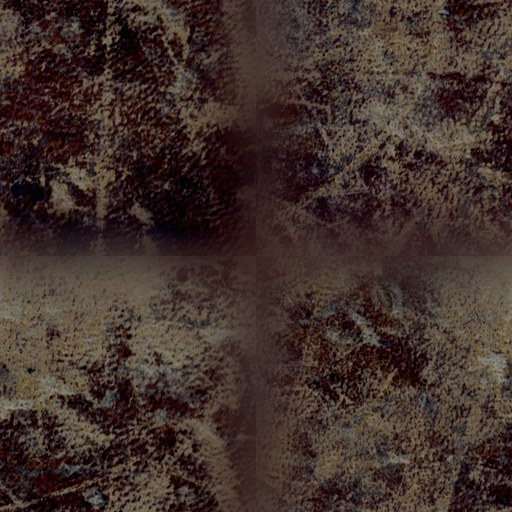
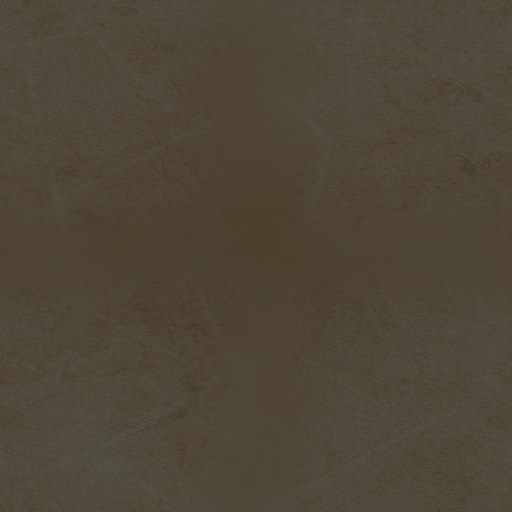
Thème grimoire : fond cuir bruité → parchemin sombre calme & lisible
Le fond cuir patiné était trop chargé et murky (« on voit plus rien »). Remplacé
par un parchemin sombre CALME (même scan Pergament, assombri en brun-noir chaud,
grain léger uniforme) + une vraie hiérarchie de lecture :
- page (table) sombre → planche (feuille) un cran plus claire, liserés or/brun
- cartouche (étiquette) distinct, liseré or
Encre claire à fort contraste (texte 10,6:1, étiquette 9,9:1, titres 13,7:1).

Vérifié runtime (preview) : surfaces grimoire ≥ 9,9:1 ; 368/0 ; smoke 7/7 ; 0 SVG.
CREDITS.md mis à jour (paper-dark dérive désormais de Pergament, Tim Jones, CC BY).

diff --git a/styles.css b/styles.css
@@ -1843,31 +1843,38 @@ img.topbar__sceau{
 }
 .btn-print-go:hover{ background:#7a2228; }
 
-/* --- 5. THÈME GRIMOIRE LISIBLE : voile sombre uniforme sur le cuir --- */
-:root[data-theme="sombre"] body{ background-color:#14100a; }
-:root[data-theme="sombre"] .plate{
+/* --- 5. THÈME GRIMOIRE : parchemin sombre calme + hiérarchie page→planche→cartouche.
+   Fond uniforme (plus de cuir bruité), la « feuille » ressort sur la « table ». --- */
+:root[data-theme="sombre"]{ --paper-body:#161009; }
+:root[data-theme="sombre"] body{
+  background-color:#161009;
   background-image:
-    radial-gradient(140% 120% at 50% 22%, rgba(150,120,72,.10), rgba(0,0,0,0) 46%),
-    linear-gradient(rgba(26,21,14,.86), rgba(22,18,12,.9)),
+    linear-gradient(rgba(15,11,7,.60), rgba(12,9,6,.66)),
     var(--paper-tex) !important;
-  background-size:auto, auto, 520px !important;
-  border-color:rgba(67,55,34,.5);
+  background-size:auto, 520px !important;
 }
+/* la planche = feuille claire posée sur la table sombre */
+:root[data-theme="sombre"] .plate,
 :root[data-theme="sombre"] .cover,
 :root[data-theme="sombre"] .grille-recettes .carte{
   background-image:
-    linear-gradient(rgba(26,21,14,.85), rgba(22,18,12,.9)),
+    radial-gradient(150% 120% at 50% 20%, rgba(176,142,86,.10), rgba(0,0,0,0) 50%),
+    linear-gradient(rgba(32,25,15,.28), rgba(26,20,12,.34)),
     var(--paper-tex) !important;
-  background-size:auto, 420px !important;
+  background-size:auto, auto, 480px !important;
+  border-color:rgba(150,124,74,.34);
 }
+:root[data-theme="sombre"] .plate::before{ border-color:rgba(150,124,74,.28); }
+:root[data-theme="sombre"] .plate::after{ border-color:rgba(176,142,86,.22); }
+/* le cartouche = étiquette distincte, un cran plus chaud + liseré or */
 :root[data-theme="sombre"] .cartouche{
   background-image:
-    linear-gradient(rgba(38,31,21,.94), rgba(32,26,17,.96)),
+    linear-gradient(rgba(50,40,25,.46), rgba(42,34,21,.52)),
     var(--paper-tex) !important;
   background-size:auto, 220px !important;
-  box-shadow:inset 0 0 0 1px rgba(216,199,155,.14), 0 2px 10px rgba(0,0,0,.5);
+  box-shadow:inset 0 0 0 1px rgba(198,160,100,.22), 0 2px 12px rgba(0,0,0,.45);
 }
-:root[data-theme="sombre"]{ --ink:#f0e7d4; --ink-soft:#d4c9b0; --ink-faint:#a3957a; }
+:root[data-theme="sombre"]{ --ink:#f3ead7; --ink-soft:#d9cfb6; --ink-faint:#ab9c80; }
 :root[data-theme="sombre"] .lede,
 :root[data-theme="sombre"] .pen-note{ background:rgba(20,16,10,.5); box-shadow:0 0 0 7px rgba(20,16,10,.5); color:var(--ink-soft); }
 :root[data-theme="sombre"] .lot-calc{

diff --git a/CREDITS.md b/CREDITS.md
@@ -10,7 +10,7 @@ Recherche menée par workflow multi-agents sur les API Wikimedia Commons & Openv
 | Élément | Source | Auteur | Licence |
 |---|---|---|---|
 | `images/paper-light.jpg` (parchemin clair) | « Pergament.0 », Wikimedia Commons | Tim Jones | **CC BY 2.0** |
-| `images/paper-dark.jpg` (cuir patiné, thème nuit) | « Free vintage antique leather book cover texture for layers », Wikimedia Commons | Pink Sherbet Photography (D. Sharon Pruitt) | **CC BY 2.0** |
+| `images/paper-dark.jpg` (parchemin sombre, thème grimoire) | « Pergament.0 », Wikimedia Commons (même scan, assombri en brun-noir chaud) | Tim Jones | **CC BY 2.0** |
 
 Les textures ont été recadrées, rendues sans couture (tuilables) et calées en tonalité ; les auteurs restent crédités ci-dessus conformément à CC BY.
 
